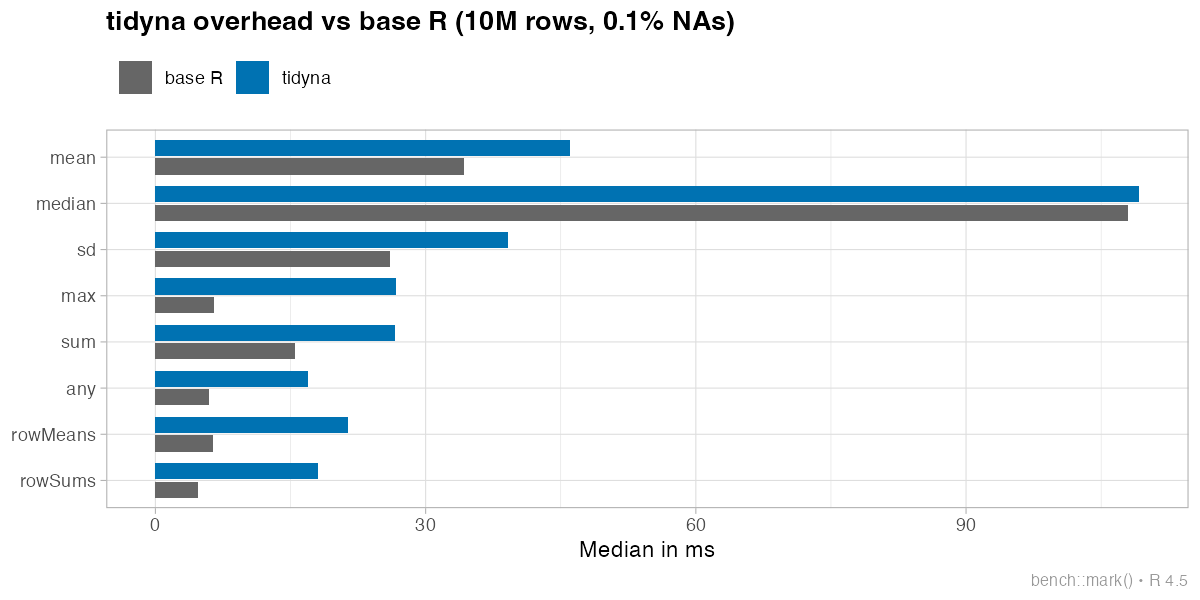
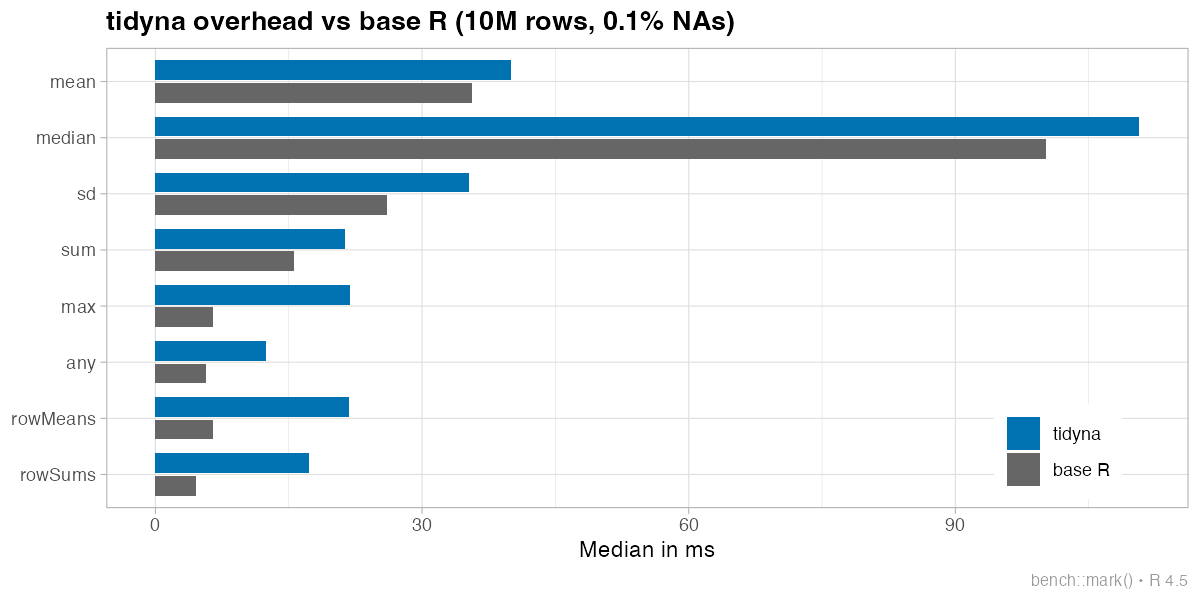
Test and improve performance

diff --git a/README.md b/README.md
@@ -1,18 +1,20 @@
-
 # tidyna
 
-Tired of littering your code with `na.rm = TRUE`? **tidyna** masks common R functions and warns you when NAs are removed. It handles some special cases. The `table()` default is set to `useNA = "ifany"`.
+Tired of littering your code with `na.rm = TRUE`?
+
+**`tidyna`** masks common R functions and warns you when NAs are removed. It handles some special cases. The `table()` default is set to `useNA = "ifany"`.
 
 ## Installation
 
 Install from CRAN:
 
-```r
+``` r
 install.packages("tidyna")
 ```
+
 Or install the development version from GitHub:
 
-```r
+``` r
 # install.packages("pak")
 pak::pak("statzhero/tidyna")
 ```
@@ -32,12 +34,12 @@ Suppress warnings with `options(tidyna.warn = FALSE)`.
 
 ## Functions
 
-- **Summary**: `mean`, `sum`, `prod`, `sd`, `var`, `median`, `quantile`
-- **Extrema**: `min`, `max`, `range`, `pmax`, `pmin`
-- **Logical**: `any`, `all`
-- **Row-wise**: `rowSums`, `rowMeans`
-- **Correlation**: `cor`
-- **Table**: `table`
+-   **Summary**: `mean`, `sum`, `prod`, `sd`, `var`, `median`, `quantile`
+-   **Extrema**: `min`, `max`, `pmin`, `pmax`, `range`
+-   **Logical**: `any`, `all`
+-   **Row-wise**: `rowSums`, `rowMeans`
+-   **Correlation**: `cor`
+-   **Table**: `table`
 
 ## Special cases
 
@@ -51,7 +53,7 @@ base::sum(c(NA, NA), na.rm = TRUE)
 #> [1] 0
 ```
 
-**`rowSums`** returns `NA` for all-NA rows, but errors if the entire matrix is NA.
+**`rowSums`/`rowMeans`** return `NA` for all-NA rows, but error if the entire matrix is NA.
 
 **`pmax`/`pmin`** return `NA` for positions where all inputs are NA (with a warning), but error if every position is all-NA:
 
@@ -67,6 +69,16 @@ pmax(c(NA, NA), c(NA, NA))
 **`cor`** defaults to `use = "pairwise.complete.obs"` instead of erroring on NAs.
 
 **`table`** defaults to `useNA = "ifany"`, showing NA counts when present rather than silently dropping them.
+
+## Performance
+
+There is no free lunch. The `tidyna` package adds some overhead:
+
+![](benchmarks/overhead.png)
+
+For most functions like `mean()` the overhead is negligible (1.1x). But `rowMeans()` and `rowSums()` require an extra pass to detect all-NA rows, so there is a substantial loss (3-4x).
+
+I'm still working on whether the memory allocation needs to be addressed.
 
 ## Roadmap
 
